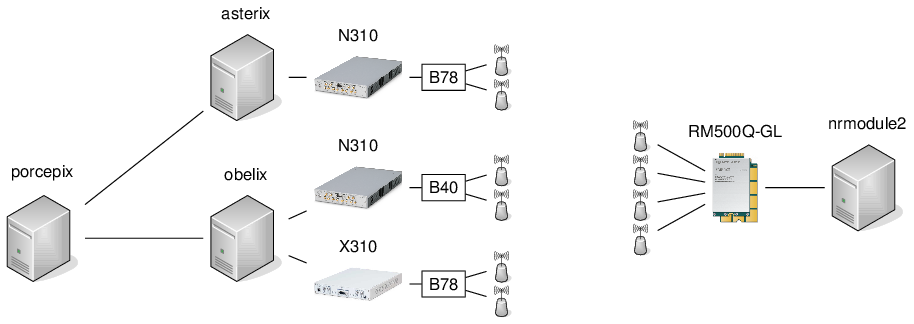
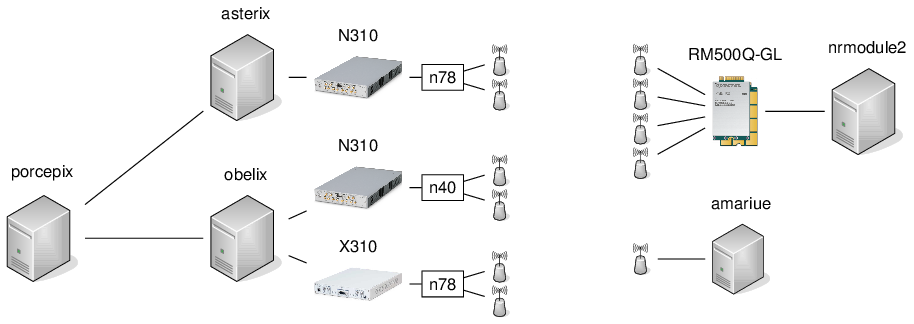
Updates in TESTBench documentation
- Correct carabe name
- NR freq bands with "nXX"
- add amariue in figure
- minor changes

diff --git a/doc/testbenches_doc_resources/5g-ota-bench.tex b/doc/testbenches_doc_resources/5g-ota-bench.tex
@@ -21,7 +21,7 @@
     edge (porcepix);
   \node[right=0.3cm of asterix, label=above:N310] (n310a)
     {\includegraphics[width=1.5cm]{n310}} edge (asterix);
-  \node[right=.2cm of n310a, duplexer] (b78o) {B78} edge (n310a);
+  \node[right=.2cm of n310a, duplexer] (b78o) {n78} edge (n310a);
   \node[below right=-0.1cm and 0.35cm of b78o.east] (anto1)
     {\includegraphics[width=0.3cm]{antenna}} edge (b78o);
   \node[above right=-0.1cm and 0.35cm of b78o.east] (anto2)
@@ -32,20 +32,20 @@
     edge (porcepix);
   \node[above right=-0.5cm and 0.3cm of obelix, label=above:N310] (n310o)
     {\includegraphics[width=1.5cm]{n310}} edge (obelix);
-  \node[right=.2cm of n310o, duplexer] (b78o) {B40} edge (n310o);
+  \node[right=.2cm of n310o, duplexer] (b78o) {n40} edge (n310o);
   \node[below right=-0.1cm and 0.35cm of b78o.east] (anto1)
     {\includegraphics[width=0.3cm]{antenna}} edge (b78o);
   \node[above right=-0.1cm and 0.35cm of b78o.east] (anto2)
     {\includegraphics[width=0.3cm]{antenna}} edge (b78o);
   \node[below right=-0.5cm and 0.3cm of obelix, label=above:X310] (x310o)
     {\includegraphics[width=1.5cm]{x310}} edge (obelix);
-  \node[right=.2cm of x310o, duplexer] (b78o) {B78} edge (x310o);
+  \node[right=.2cm of x310o, duplexer] (b78o) {n78} edge (x310o);
   \node[below right=-0.1cm and 0.35cm of b78o.east] (anto1)
     {\includegraphics[width=0.3cm]{antenna}} edge (b78o);
   \node[above right=-0.1cm and 0.35cm of b78o.east] (anto2)
     {\includegraphics[width=0.3cm]{antenna}} edge (b78o);
 
-  \node[right=5.0cm of n310o, label=above:RM500Q-GL] (quectel)
+  \node[above right=-1.3cm and 5.0cm of n310a.east, label=above:RM500Q-GL] (quectel)
     {\includegraphics[height=1.2cm]{quectel}};
   \node[above left=-0.1cm and 0.8cm of quectel.west] (aq2)
     {\includegraphics[width=0.3cm]{antenna}} edge (quectel);
@@ -58,6 +58,11 @@
   \node[right=1cm of quectel, label=above:nrmodule2] (nrmodule2)
     {\includegraphics[width=1.2cm]{server}}
     edge (quectel);
+
+  \node[above right=-0.3cm and 5.0cm of x310o.east, label=above:amariue] (amariue)
+    {\includegraphics[height=1.2cm]{server}};
+  \node[left=0.8cm of amariue.west] (aa1)
+    {\includegraphics[width=0.3cm]{antenna}} edge (amariue);
 
 \end{tikzpicture}
 \end{document}

diff --git a/doc/testbenches_doc_resources/5g-nsa-faraday-bench.tex b/doc/testbenches_doc_resources/5g-nsa-faraday-bench.tex
@@ -30,7 +30,7 @@
   \draw (obelix) -- (b210o);
   \node[above right=0.35cm of faraday.south west] (antn)
     {\includegraphics[width=0.3cm]{antenna}};
-  \draw (b210n) -| node [pos=0.2, duplexer] {B78} (antn);
+  \draw (b210n) -| node [pos=0.2, duplexer] {n78} (antn);
 
   \node[left=5cm of faraday, label=above:porcepix] (porcepix)
     {\includegraphics[width=1.2cm]{server}};

diff --git a/doc/TESTBenches.md b/doc/TESTBenches.md
@@ -9,19 +9,19 @@
 
 | Machine       | IP address      | Lockable Resource     | Function           | Connected devices                                     |
 | ------------- | --------------- | --------------------- | ------------------ | ----------------------------------------------------- |
-| asterix       | 172.21.16.127   | CI-Asterix-Usage      | gNB                | 173.21.19.14                                          |
-| obelix        | 172.21.16.128   | CI-Obelix-Usage       | eNB, UE (5G)       | 172.21.19.13, X300 (192.168.60.2), B200mini (30C51EB) |
+| asterix       | 172.21.16.127   | CI-Asterix-Usage      | gNB (n78)          | 173.21.19.14                                          |
+| obelix        | 172.21.16.128   | CI-Obelix-Usage       | eNB (n40, n78), nrUE | 172.21.19.13, X300 (192.168.60.2), B200mini (30C51EB) |
 | porcepix      | 172.21.16.136   | CI-NSA-MiniBench      | Executor, EPC, 5GC | --                                                    |
 | nrmodule2     | 172.21.16.139   | CI-NSA-MiniBench      | Quectel            | Quectel module                                        |
-| nepes         | 172.21.16.137   | CI-NSA-MiniBench      | gNB                | B200mini (30C51D4)                                    |
+| nepes         | 172.21.16.137   | CI-NSA-MiniBench      | gNB (n78)          | B200mini (30C51D4)                                    |
 | caracal       | 172.21.16.132   | CI-Caracal            | gNB/phytest        | N300 (192.168.10.2)                                   |
 | idefix        | 172.21.16.135   | CI-NSA-MiniBench      | Quectel            | Quectel module                                        |
-| amariue       | 172.21.16.144   | CI-Amarisoft-UE-Usage | TBD                | Amarisoft UE simulator                                |
+| amariue       | 172.21.16.144   | CI-Amarisoft-UE-Usage | nrUE               | Amarisoft UE simulator                                |
 | bellatrix     | 192.168.117.115 | CI-RAN-VM-Deployment  | Executor           | --                                                    |
 | nano          | 192.168.12.62   | CI-Bench-1-Phones     | EPC, adb           | 2x COTS (adb)                                         |
 | hutch         | 192.168.12.19   | CI-Bench-1-Phones     | eNB (B7)           | B200mini (30C5239)                                    |
 | starsky       | 192.168.12.18   | CI-Bench-1-Phones     | eNB (B40)          | b200mini (30A3E3C)                                    |
-| carabe        | 192.168.12.211  | CI-Bench-2-OAI-Phone  | UE 4G (B)          | B200mini (30AE8C9)                                    |
+| carabe        | 192.168.12.211  | CI-Bench-2-OAI-Phone  | UE (B7UE)          | B200mini (30AE8C9)                                    |
 
 Note: The available resources, and their current usage, is indicated here:
 - [Lockable resources of jenkins-oai](https://jenkins-oai.eurecom.fr/lockable-resources/):
@@ -40,7 +40,7 @@ Note: The available resources, and their current usage, is indicated here:
 
 ### OTA Testbench
 
-[Proper image to be followed up. TBD: add antennas/circulators]
+**Purpose**: Over-the-air 4G/5G (NSA/SA) tests
 
 Note: obelix and porcepix are both used in the OTA testbench and the 5G
 NSA/Faraday Cage testbench!
